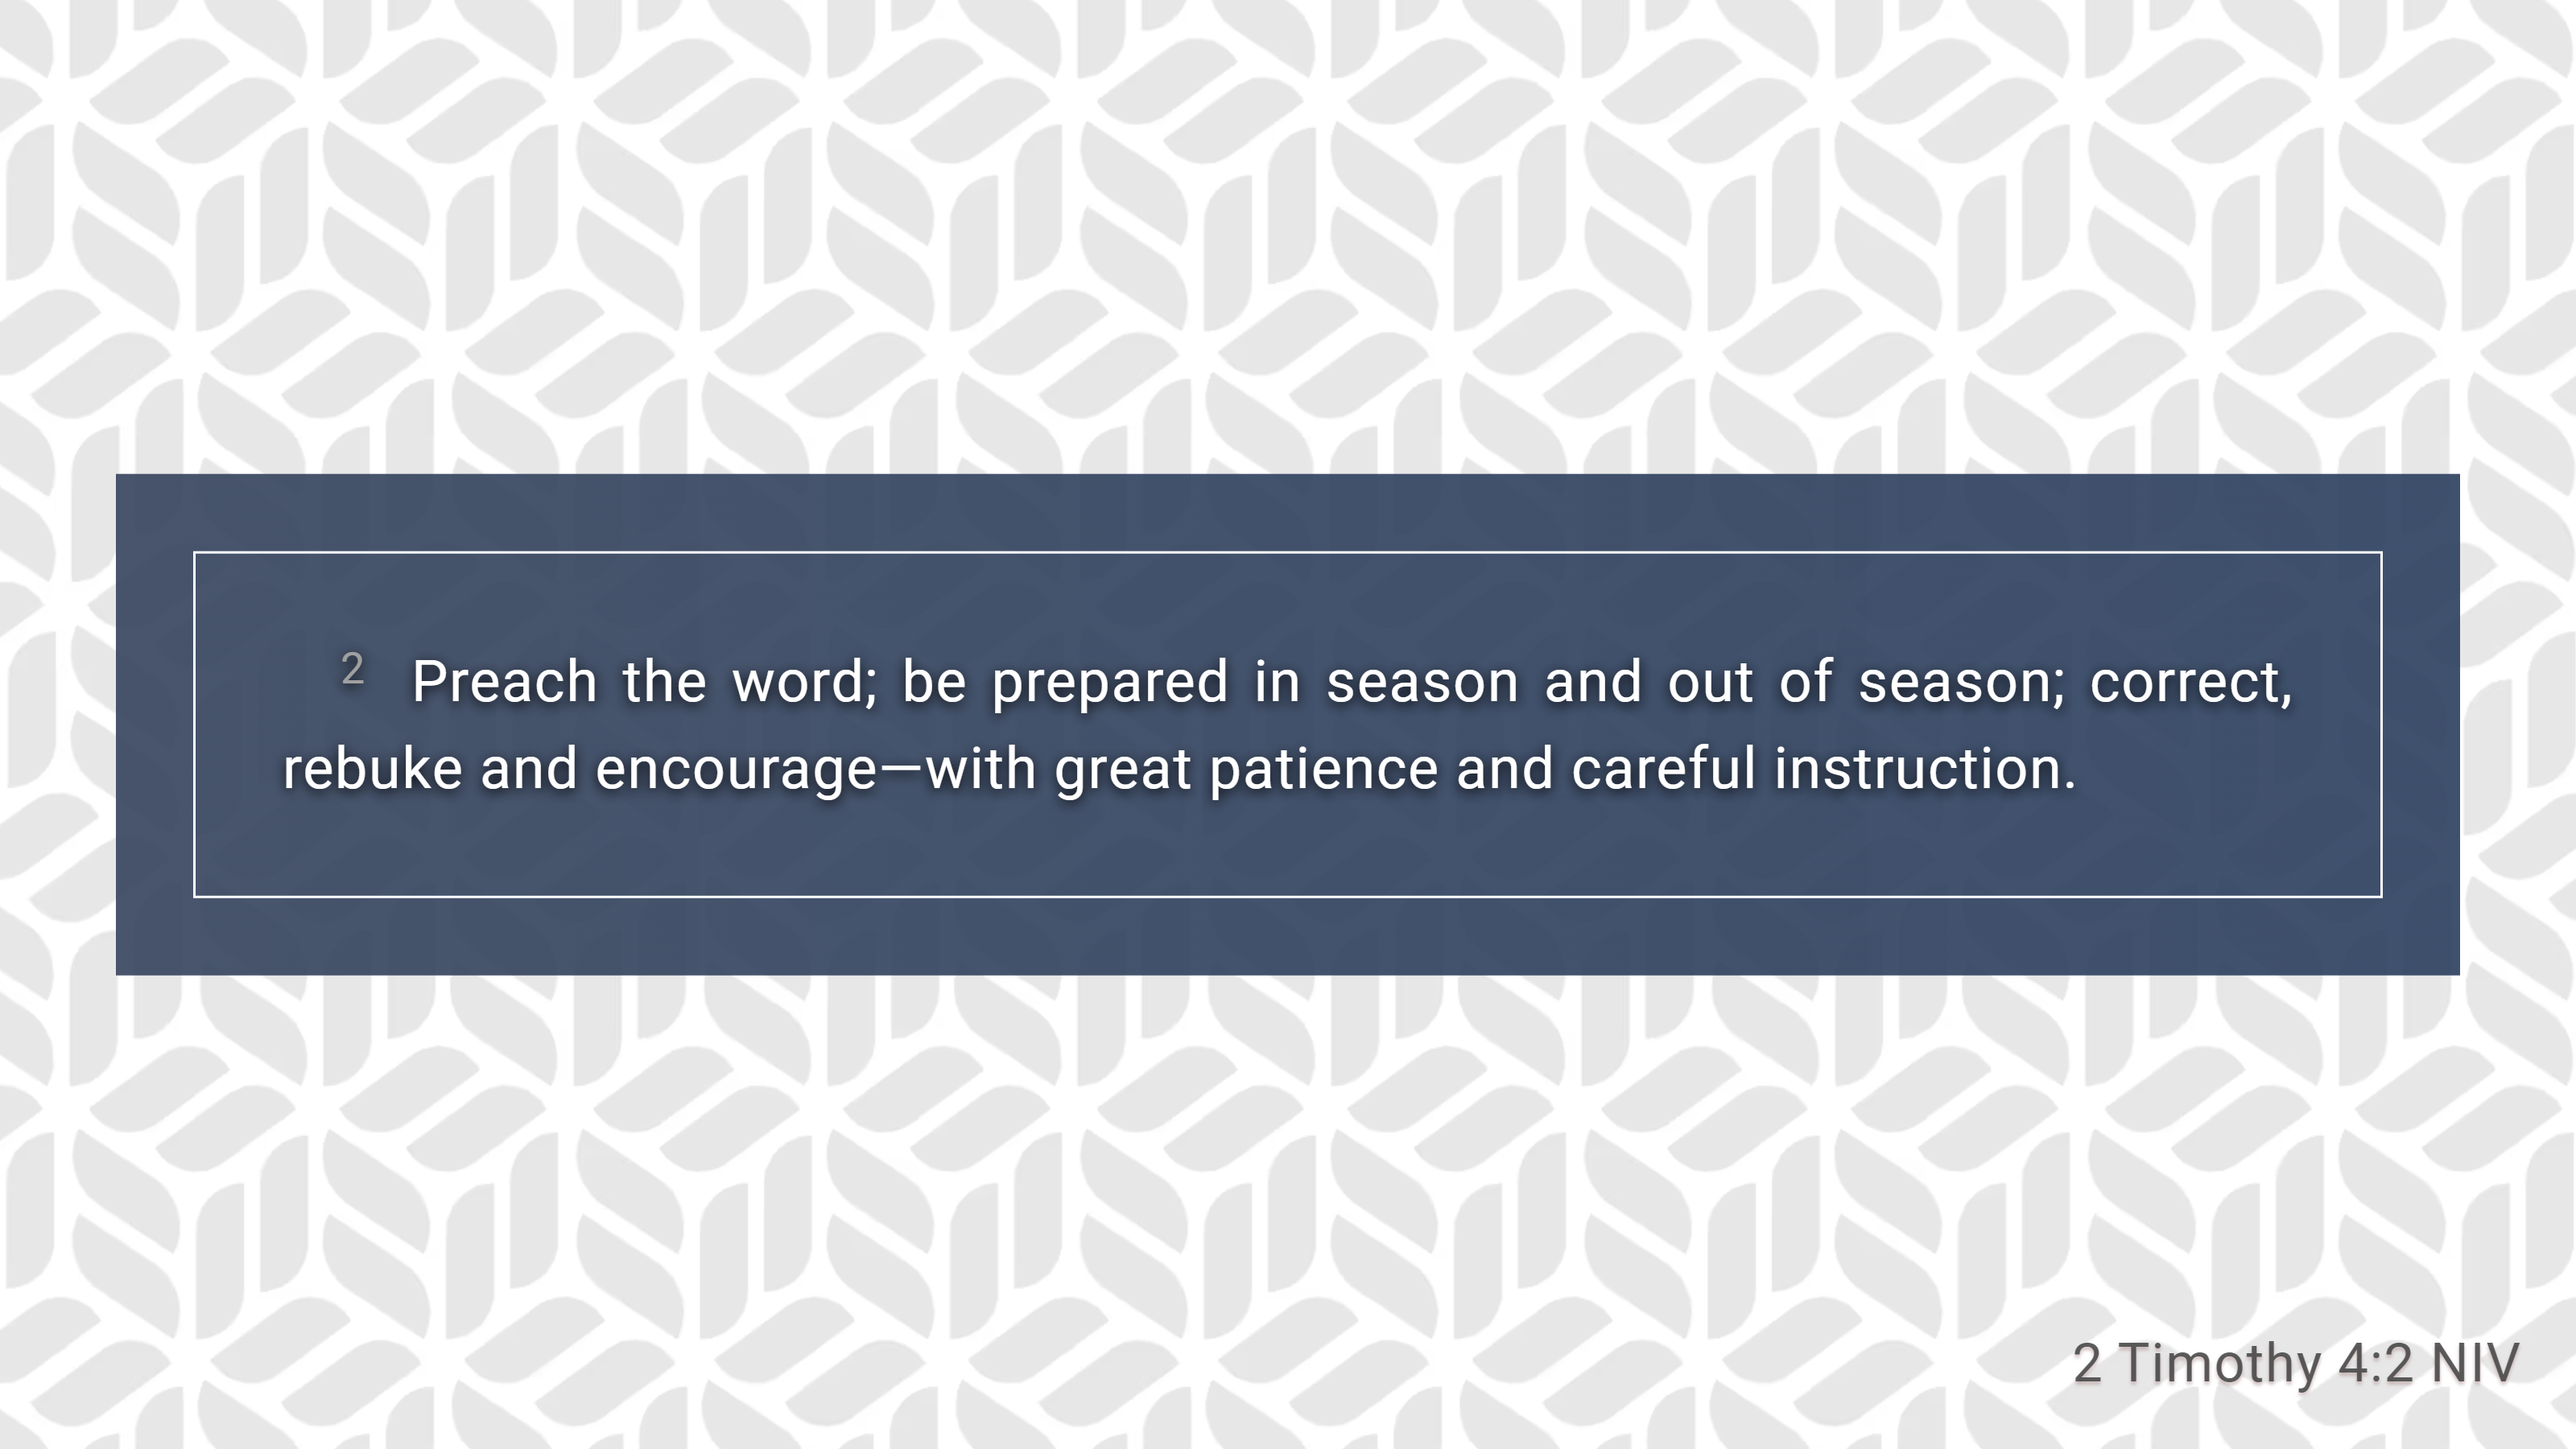
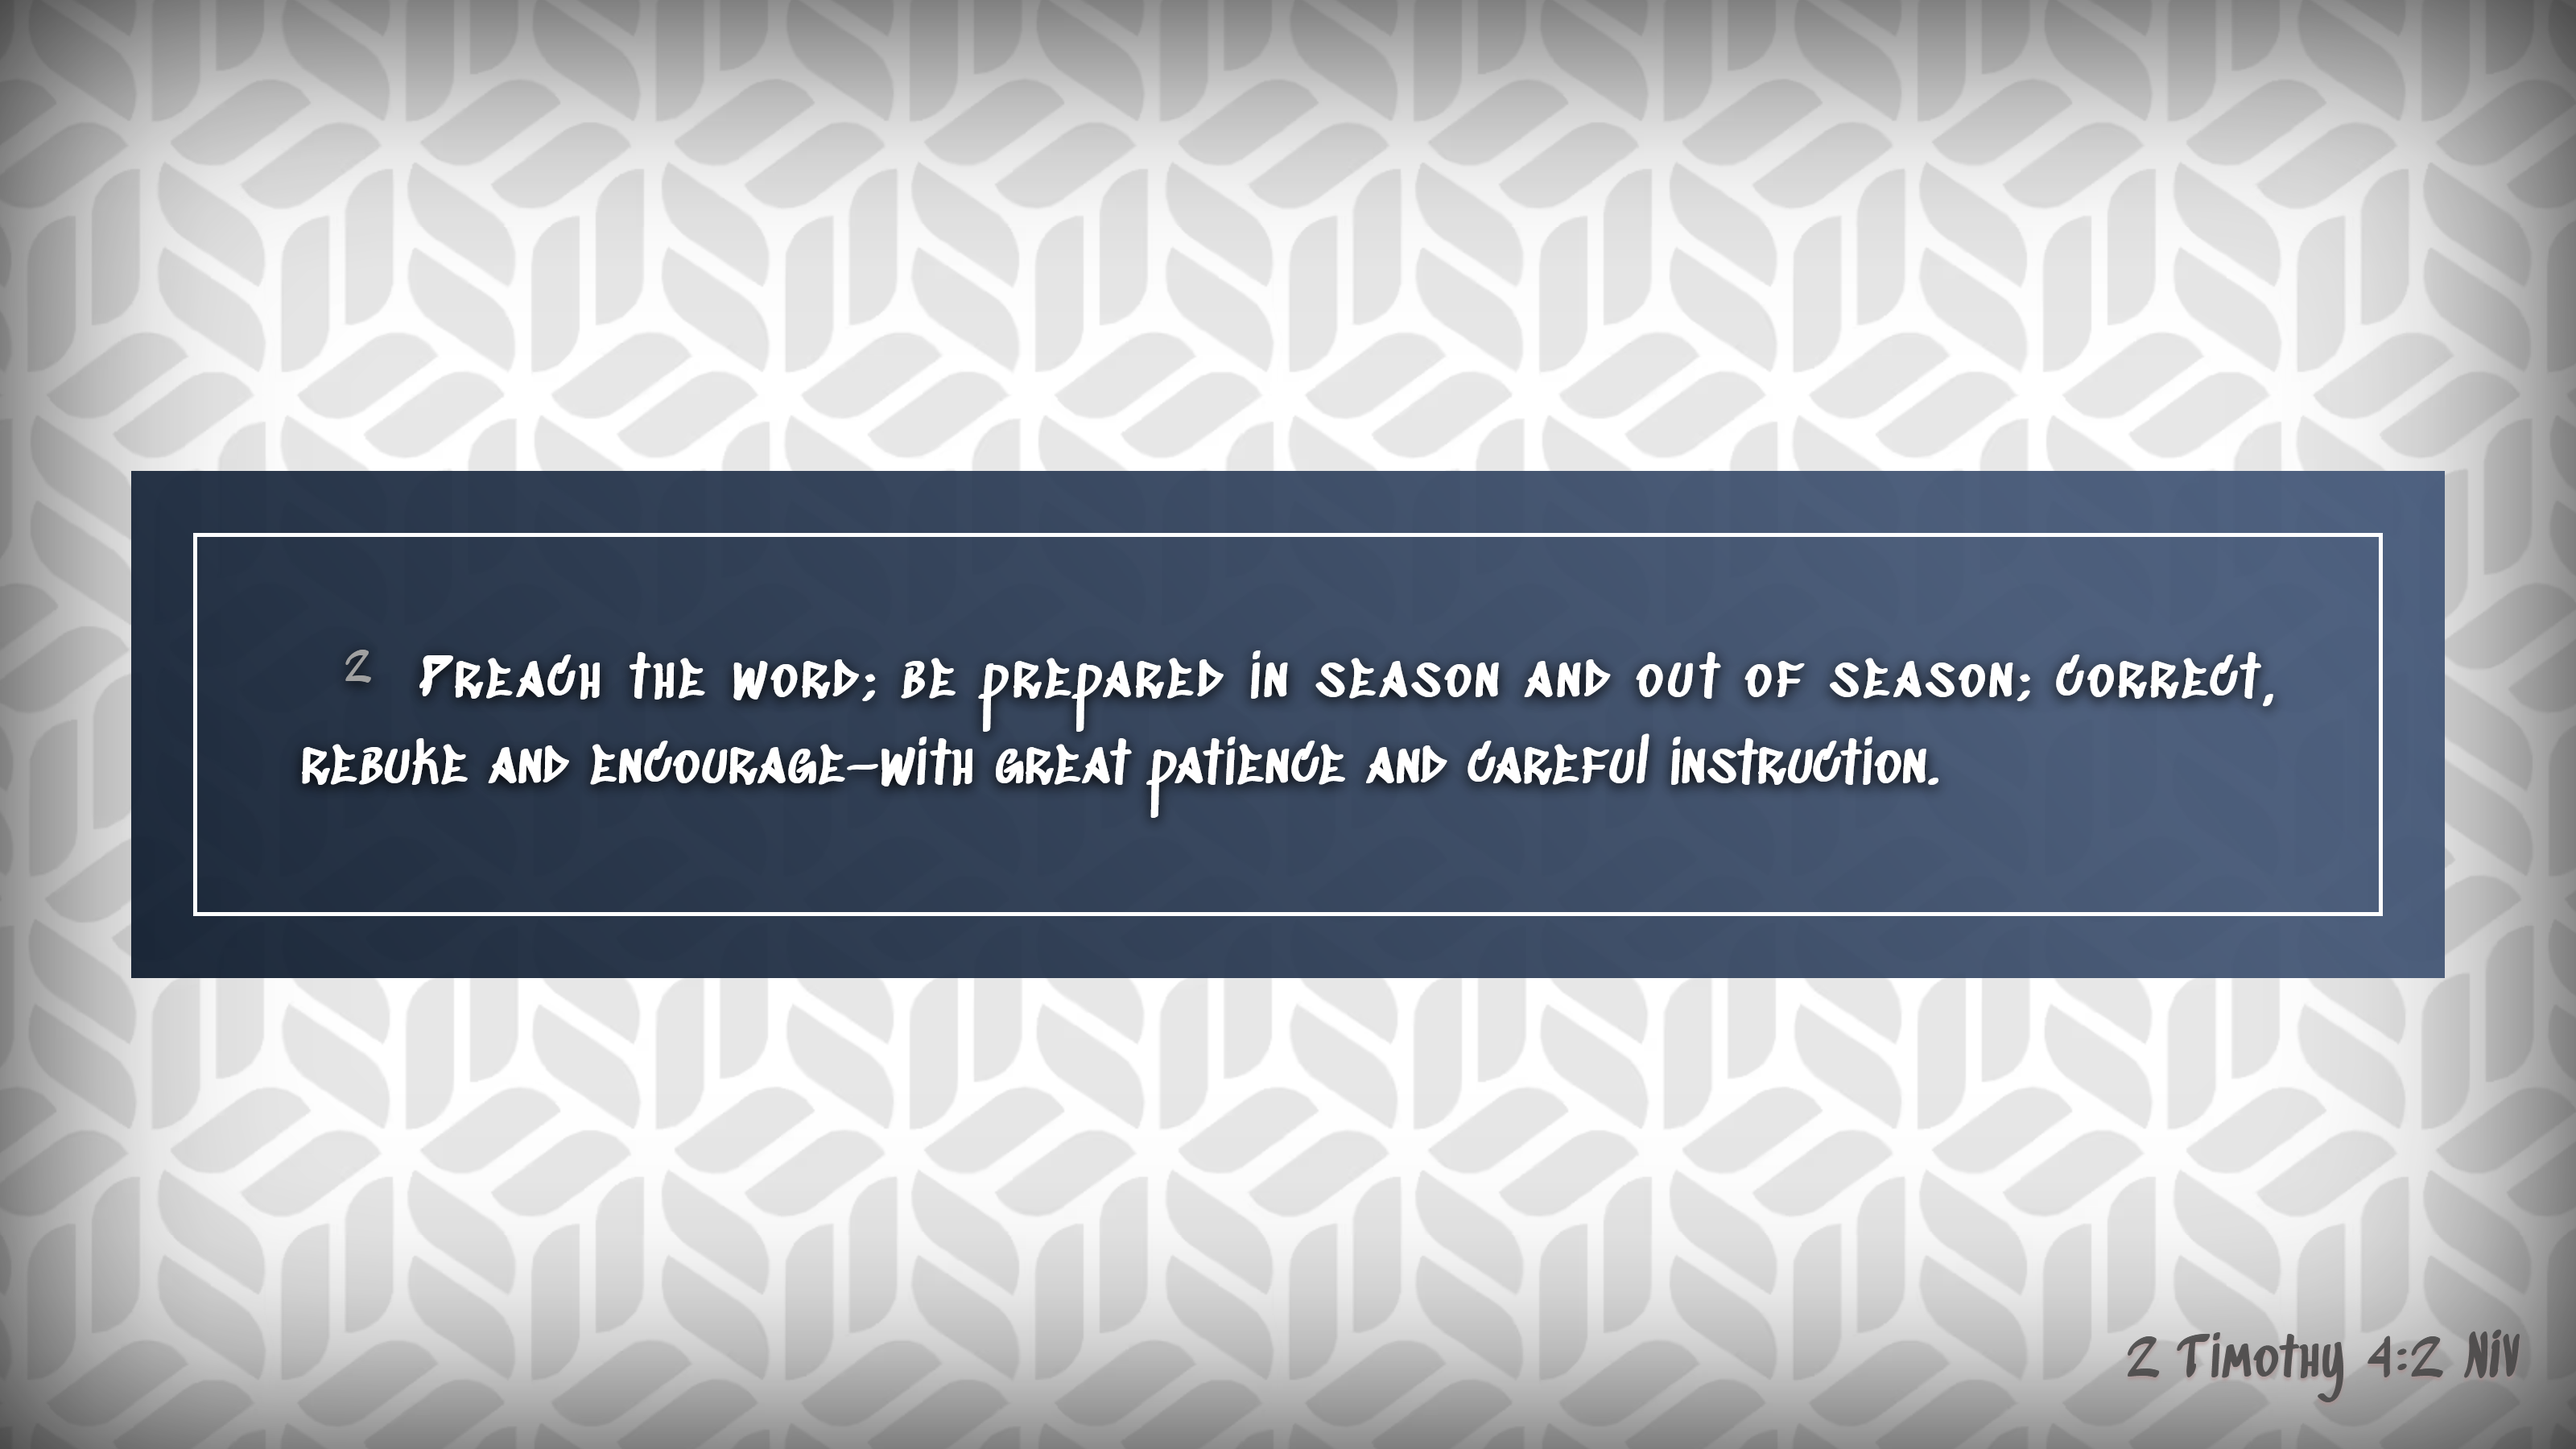
Update gray pattern

diff --git a/backgrounds/gray-pattern.css b/backgrounds/gray-pattern.css
@@ -11,20 +11,24 @@
 
 @import url(https://fonts.googleapis.com/css?family=Sedgwick+Ave+Display:ital,wght@0,900;1,400);
 
+#source, #verse, #announcement {
+	font-family: 'Sedgwick Ave Display' !important;
+}
+
 .frame {
-  font-family: 'Sedgwick Ave Display' !important;
+  
   #max-width: 90%; 
-  background: rgb(58,72,97);
-  background: linear-gradient(90deg, rgba(58,72,97,0.93) 0%, rgba(47,66,97,0.92) 100%);
+  background: rgb(69,89,122);
+  background: linear-gradient(230deg, rgba(69,89,122,0.94) 0%, rgba(62,81,112,0.921988863904937) 21%, rgba(11,24,42,0.92) 100%);
   word-wrap: break-word;
   #position: relative;
-  padding: 1em;
+  padding: 0.8em;
 }
 
 .frame .inframe {
 	font-size: 75%;
-	padding: 1.5em;
-	border: 0.05em solid white;
+	padding: 1.8em;
+	border: 0.08em solid white;
 }
 
 #source {

diff --git a/backgrounds/gray-pattern-inner.css b/backgrounds/gray-pattern-inner.css
@@ -11,6 +11,15 @@ body {
 	animation: 100s linear 0s normal none infinite animate;
  
 }
+
+.vignette {
+  position: fixed;
+  top: 0;
+  left: 0;
+  width: 100%;
+  height: 100%;
+  box-shadow: 0 0 200px rgba(0,0,0,0.9) inset;
+}
  
 @-webkit-keyframes animate {
 	from {background-position:0 0;}

diff --git a/backgrounds/gray-pattern.html b/backgrounds/gray-pattern.html
@@ -6,6 +6,7 @@
 		<link rel="stylesheet" href="gray-pattern-inner.css"/>
 	</head>
 	<body>
+		<div class="vignette"></div>
 		<background>
 		</background>
 	</body>
